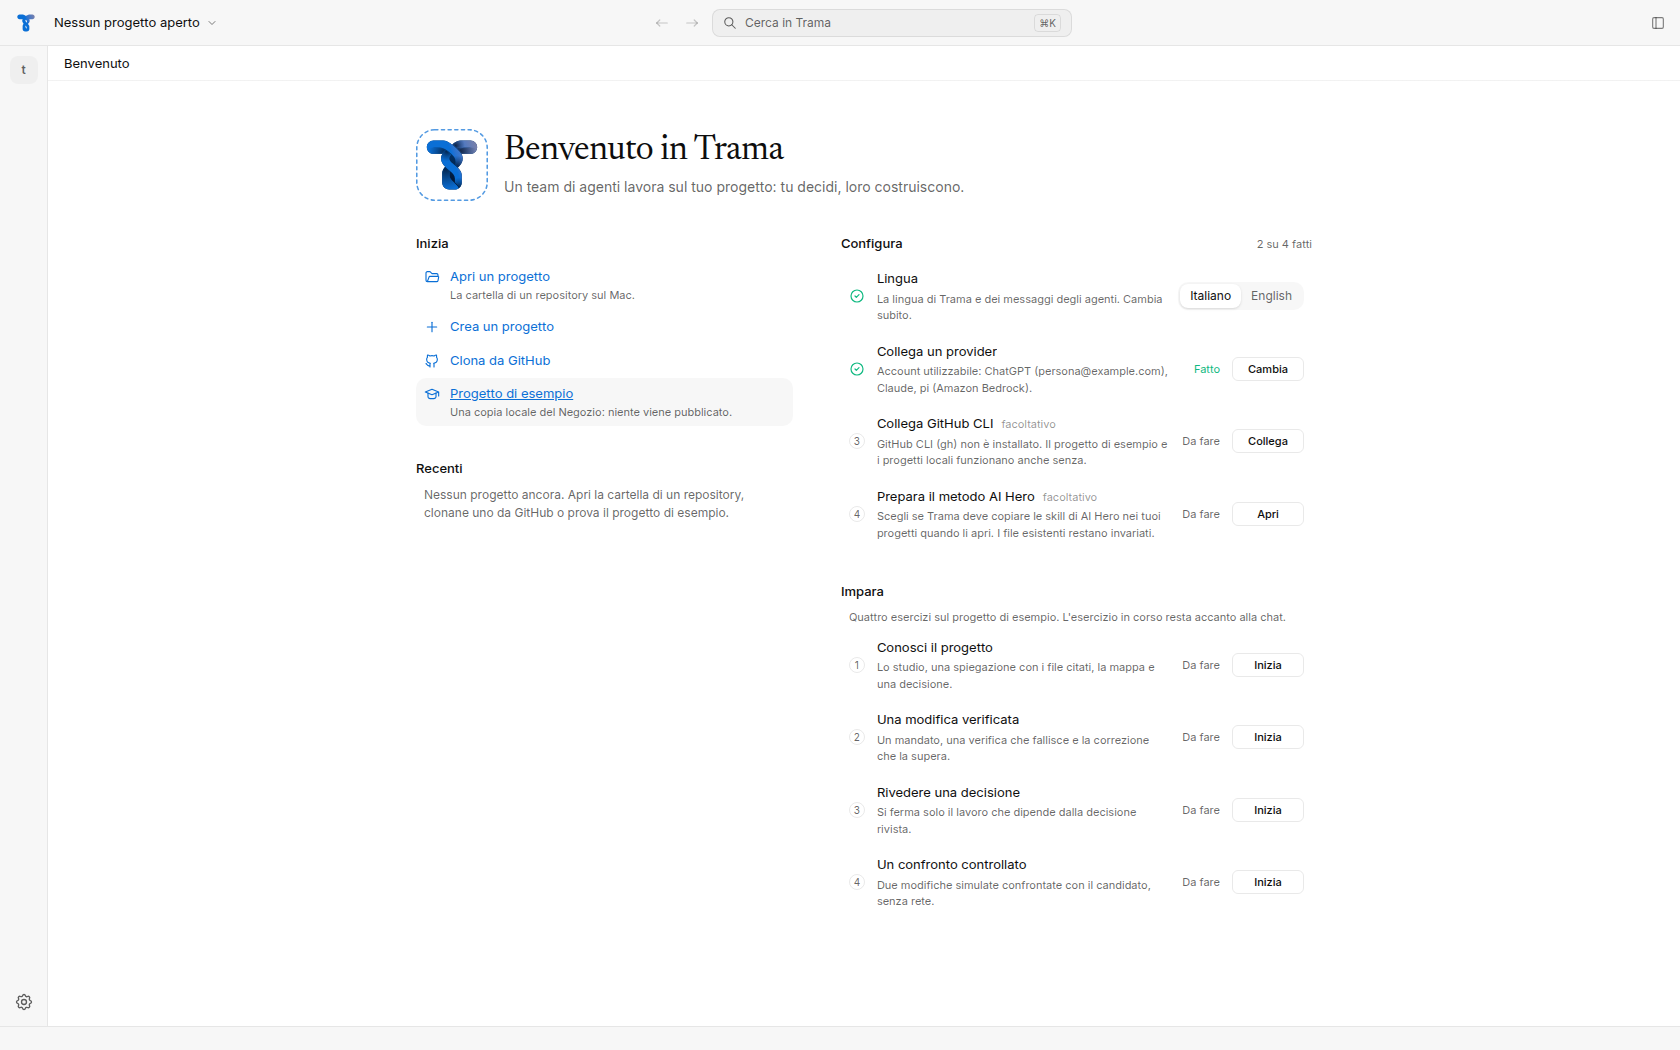
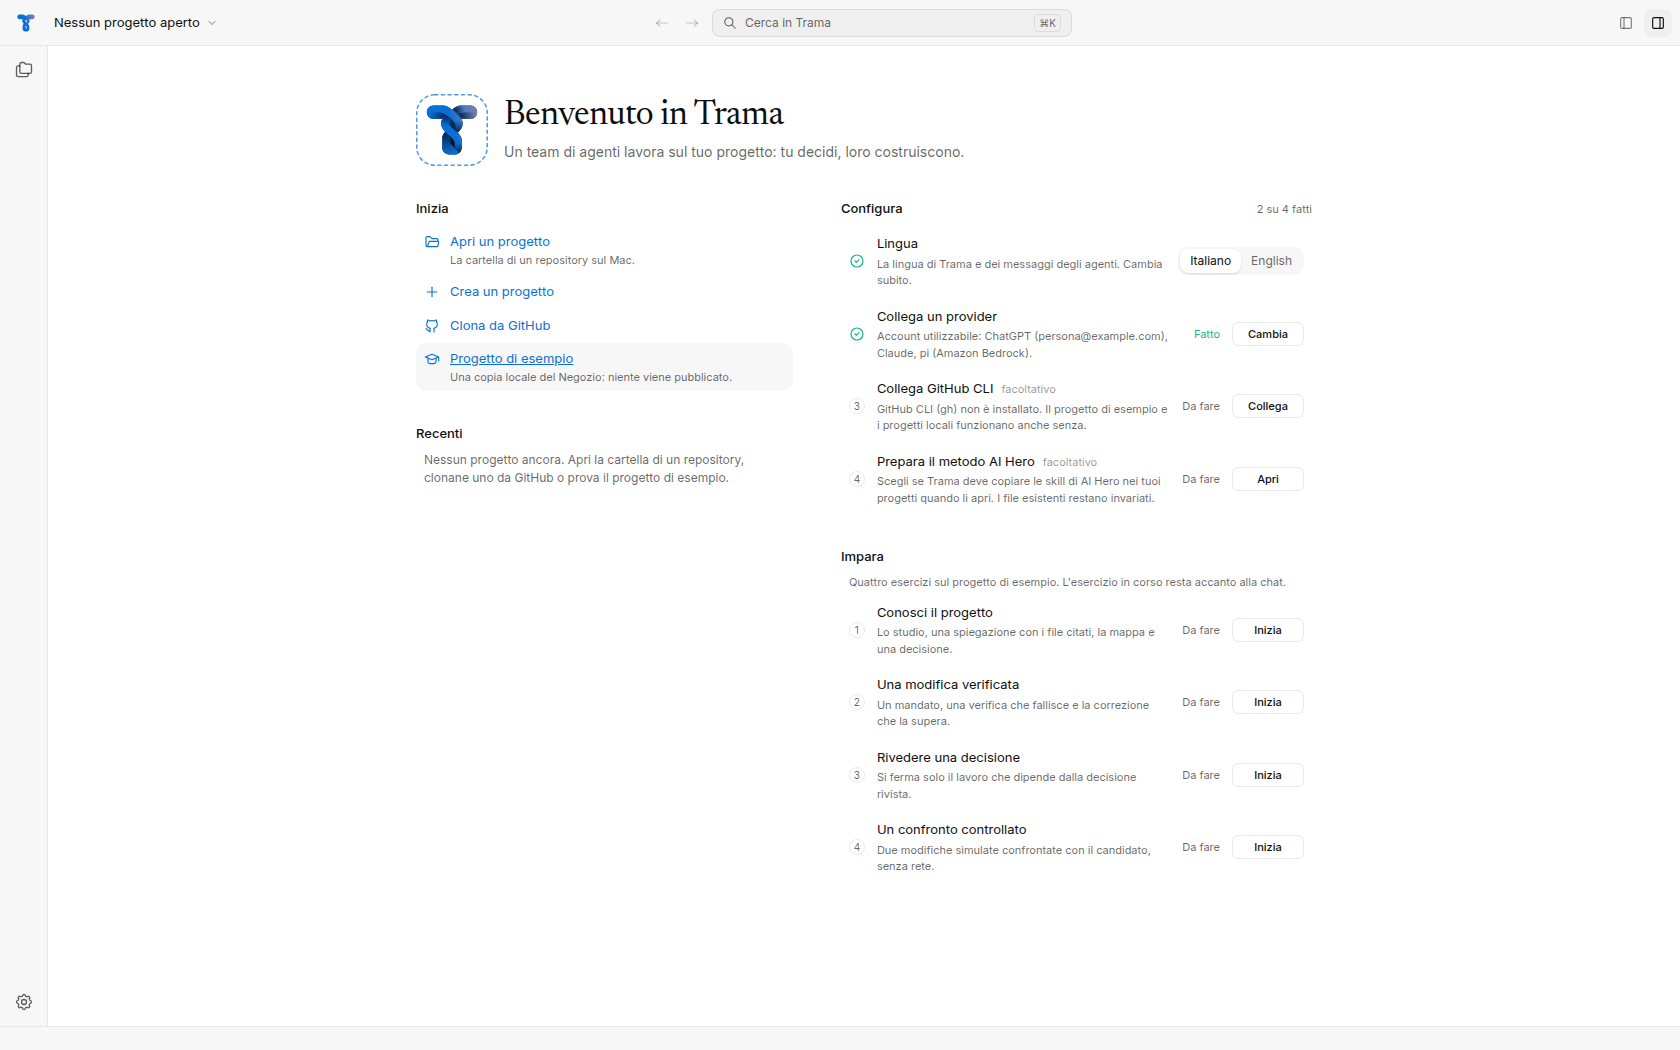
test(app): check Welcome as an editor tab and refresh its screenshots
Claude-Session: https://claude.ai/code/session_01JYbwtv8fR7AonPsXJk8YfK

diff --git a/app/src/renderer/lib/store.test.ts b/app/src/renderer/lib/store.test.ts
@@ -28,11 +28,26 @@ describe("the Benvenuto in the editor area (issue #354)", () => {
     expect(useUi.getState()).toMatchObject({ mainView: "dialog", welcomeStep: null });
   });
 
+  it("is a tab of the editor next to the conversation, which the person closes (issue #354)", () => {
+    useUi.getState().setApp(state({ project: project("a") }));
+    useUi.getState().openWelcome();
+    useUi.getState().openWelcome();
+    expect(useUi.getState().editorTabs.filter((tab) => tab.kind === "welcome")).toHaveLength(1);
+    useUi.getState().focusTab("conversation");
+    expect(useUi.getState().mainView).toBe("dialog");
+    useUi.getState().focusTab("welcome");
+    expect(useUi.getState().mainView).toBe("welcome");
+    useUi.getState().closeTab("welcome");
+    expect(useUi.getState()).toMatchObject({ mainView: "dialog" });
+    expect(useUi.getState().editorTabs.some((tab) => tab.kind === "welcome")).toBe(false);
+  });
+
   it("gives way to the conversation when a project opens from it", () => {
     useUi.getState().setApp(state({ project: project("a") }));
     useUi.getState().openWelcome();
     useUi.getState().setApp(state({ project: project("b") }));
     expect(useUi.getState().mainView).toBe("dialog");
+    expect(useUi.getState().editorTabs.some((tab) => tab.kind === "welcome")).toBe(false);
   });
 
   it("starts the clone again by itself once GitHub CLI is ready", () => {
